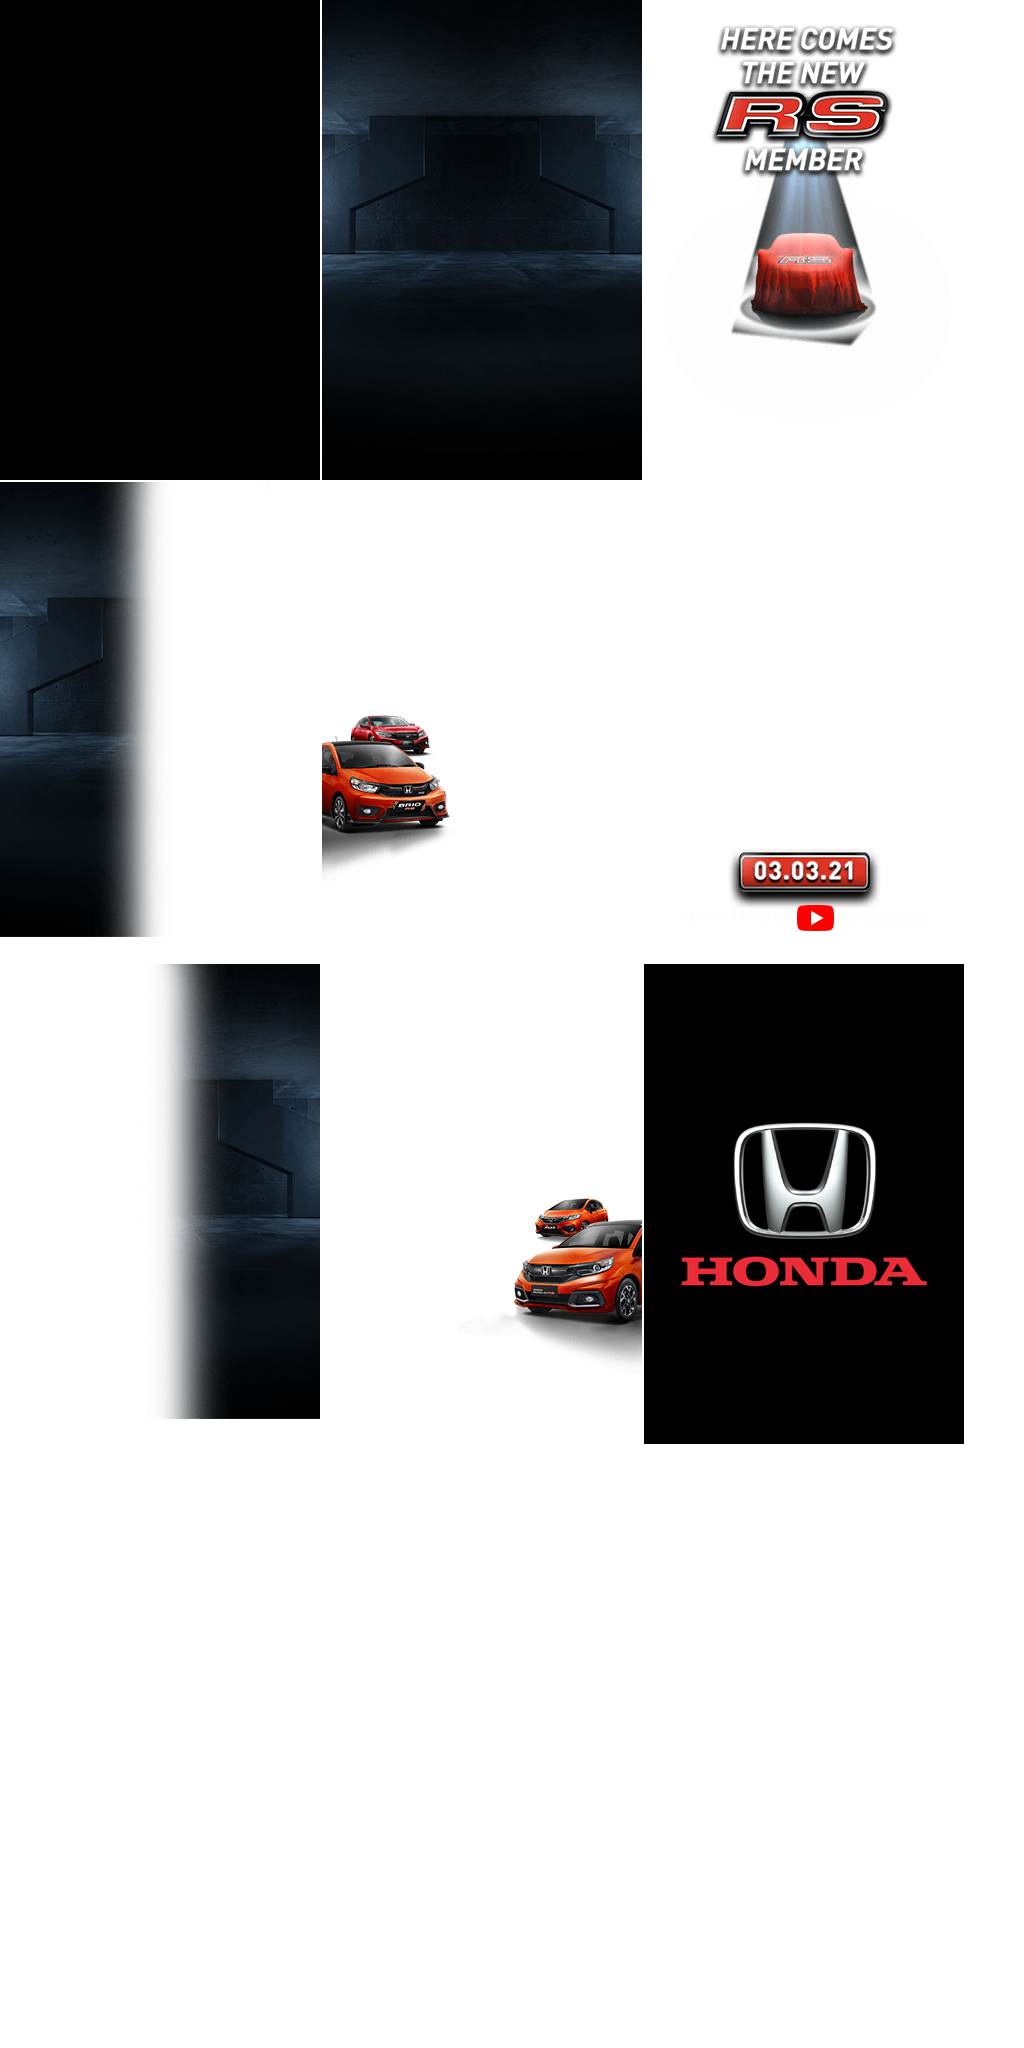
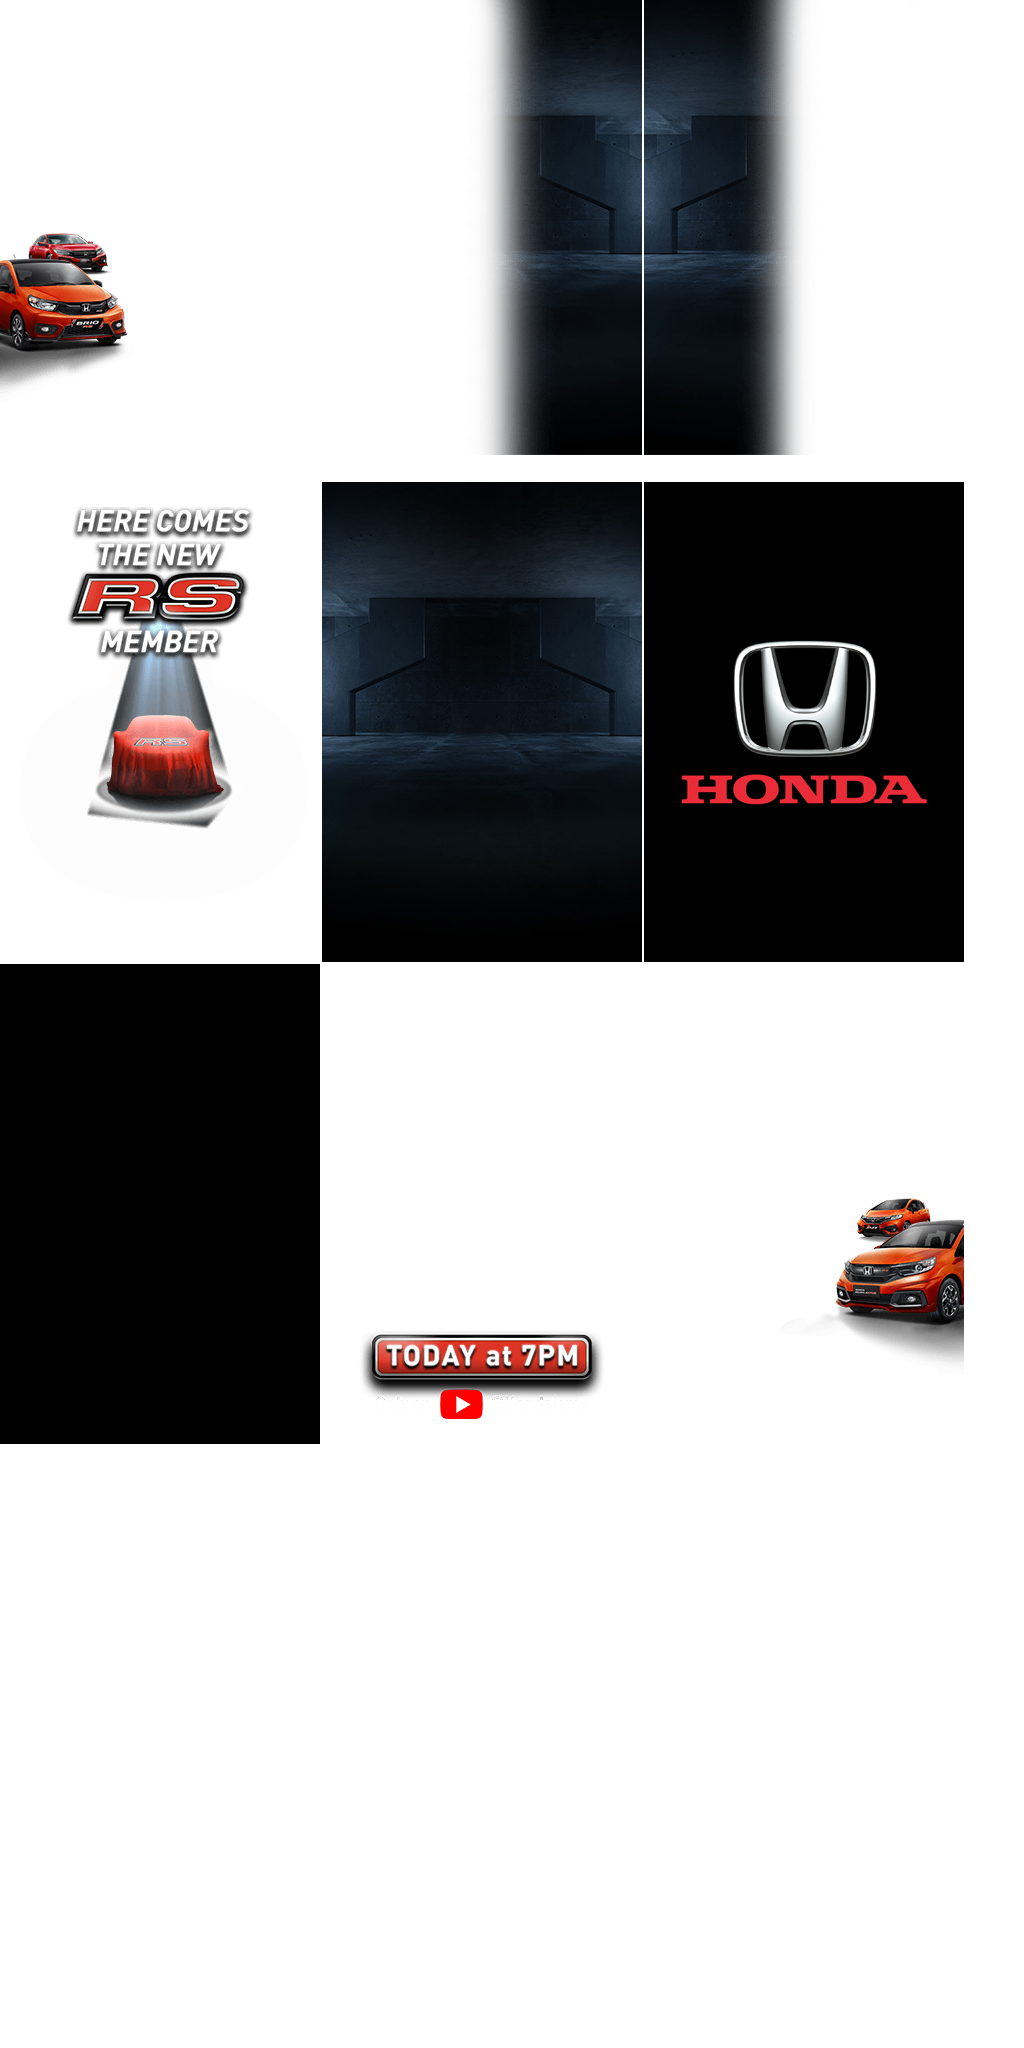
sfse

diff --git a/m.idntimes/megabillboard/hondav3/src/320x480/320x480.js b/m.idntimes/megabillboard/hondav3/src/320x480/320x480.js
@@ -3,7 +3,7 @@
 var p; // shortcut to reference prototypes
 var lib={};var ss={};var img={};
 lib.ssMetadata = [
-		{name:"320x480_atlas_", frames: [[0,0,320,480],[322,0,320,480],[0,482,320,480],[0,964,320,480],[644,964,320,480],[644,0,320,480],[322,482,320,480],[322,964,320,480],[644,482,320,480]]}
+		{name:"320x480_atlas_", frames: [[0,964,320,480],[322,482,320,480],[644,0,320,480],[322,0,320,480],[644,482,320,480],[0,482,320,480],[0,0,320,480],[644,964,320,480],[322,964,320,480]]}
 ];
 
 
